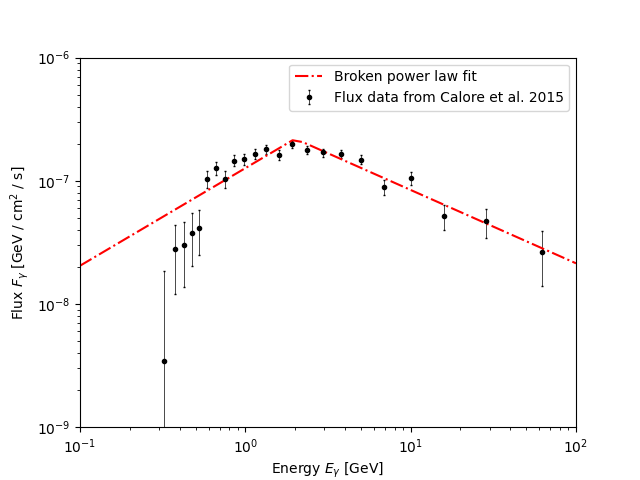
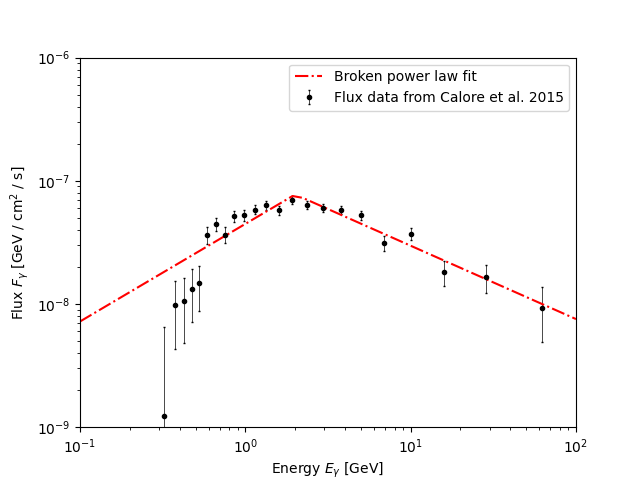
minor

diff --git a/Flux/flux.py b/Flux/flux.py
@@ -24,8 +24,9 @@ lines =['flux.py results', '\n************************************************* 
 f.writelines(lines)
 #integration conditions
 abs_err = 0.0
-rel_err = 1.0e-6
+rel_err = 1.0e-8
 div_numb = 100
+inf_approx = 1.0e50
 #ROI bounds
 b_min = np.deg2rad(2)              #ROI latitude min value
 b_max = np.deg2rad(20)             #ROI latitude max value 
@@ -40,7 +41,7 @@ options = {'epsabs': abs_err, 'epsrel' : rel_err, 'limit' : div_numb}
 #num = integrate.nquad(gNRW2, [[1.0e-6 , np.infty], [l_min, l_max], [b_min, b_max]] , args=(rs, g, rc), opts=options)
 i1 = integrate.quad(np.sin, b_min, b_max, epsabs = abs_err, epsrel = rel_err, limit=div_numb)
 i2 = integrate.quad(np.cos, l_min, l_max, epsabs = abs_err, epsrel = rel_err, limit=div_numb)
-ang_norm = 2*i2[0]*(b_max-b_min)
+ang_norm = 4*(b_max-b_min)*(np.cos(l_min)-np.cos(l_max))
 #energy integratio bound
 e_min = 0.1  #GeV
 e_max = 10   #GeV
@@ -81,7 +82,8 @@ m.values[2], m.values[3] = m.values[2]-2 , m.values[3]-2  #go back to fit values
 #y, ycov = propagate(lambda norm, xb, n1, n2: broken_pl(d.emeans, norm, xb, n1, n2)[1], m.values, m.covariance)
 #****************************************************************
 #Calculation of the total flux
-I = integrate.quad(broken_pl, e_min, e_max, args=tuple(m.values), epsabs = abs_err, epsrel = rel_err, limit=div_numb)
+I = log_scale_int(broken_pl, e_min, e_max, inf_approx, tuple(m.values), abs_err, rel_err, div_numb)
+#I = integrate.quad(broken_pl, e_min, e_max, args=tuple(m.values), epsabs = abs_err, epsrel = rel_err, limit=div_numb)
 print(I[0], "  ", I[1])
 f.write('--------------------------------------------------------\n\n')
 fluxres1 =["Flux (in sr units): \nF_Omega =" , str(I[0]), " [GeV/cm^2/s/sr] = ", str(GeVtoerg(I[0])) , "[erg/cm^2/s/sr]", '\n']
